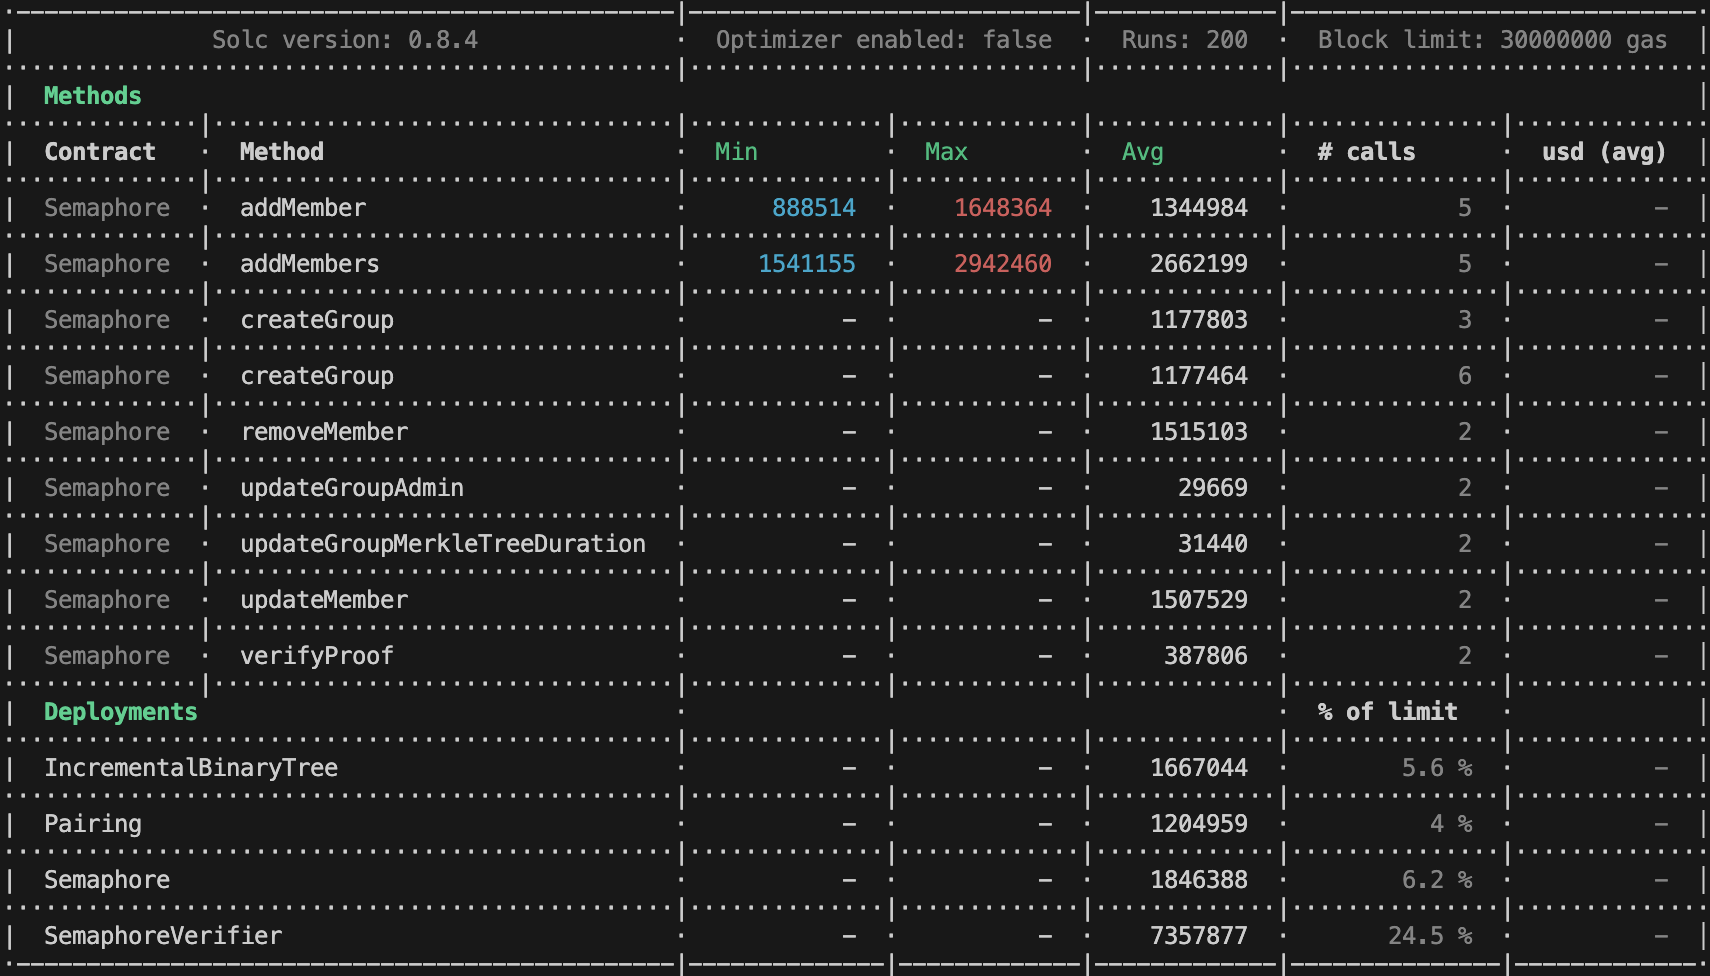
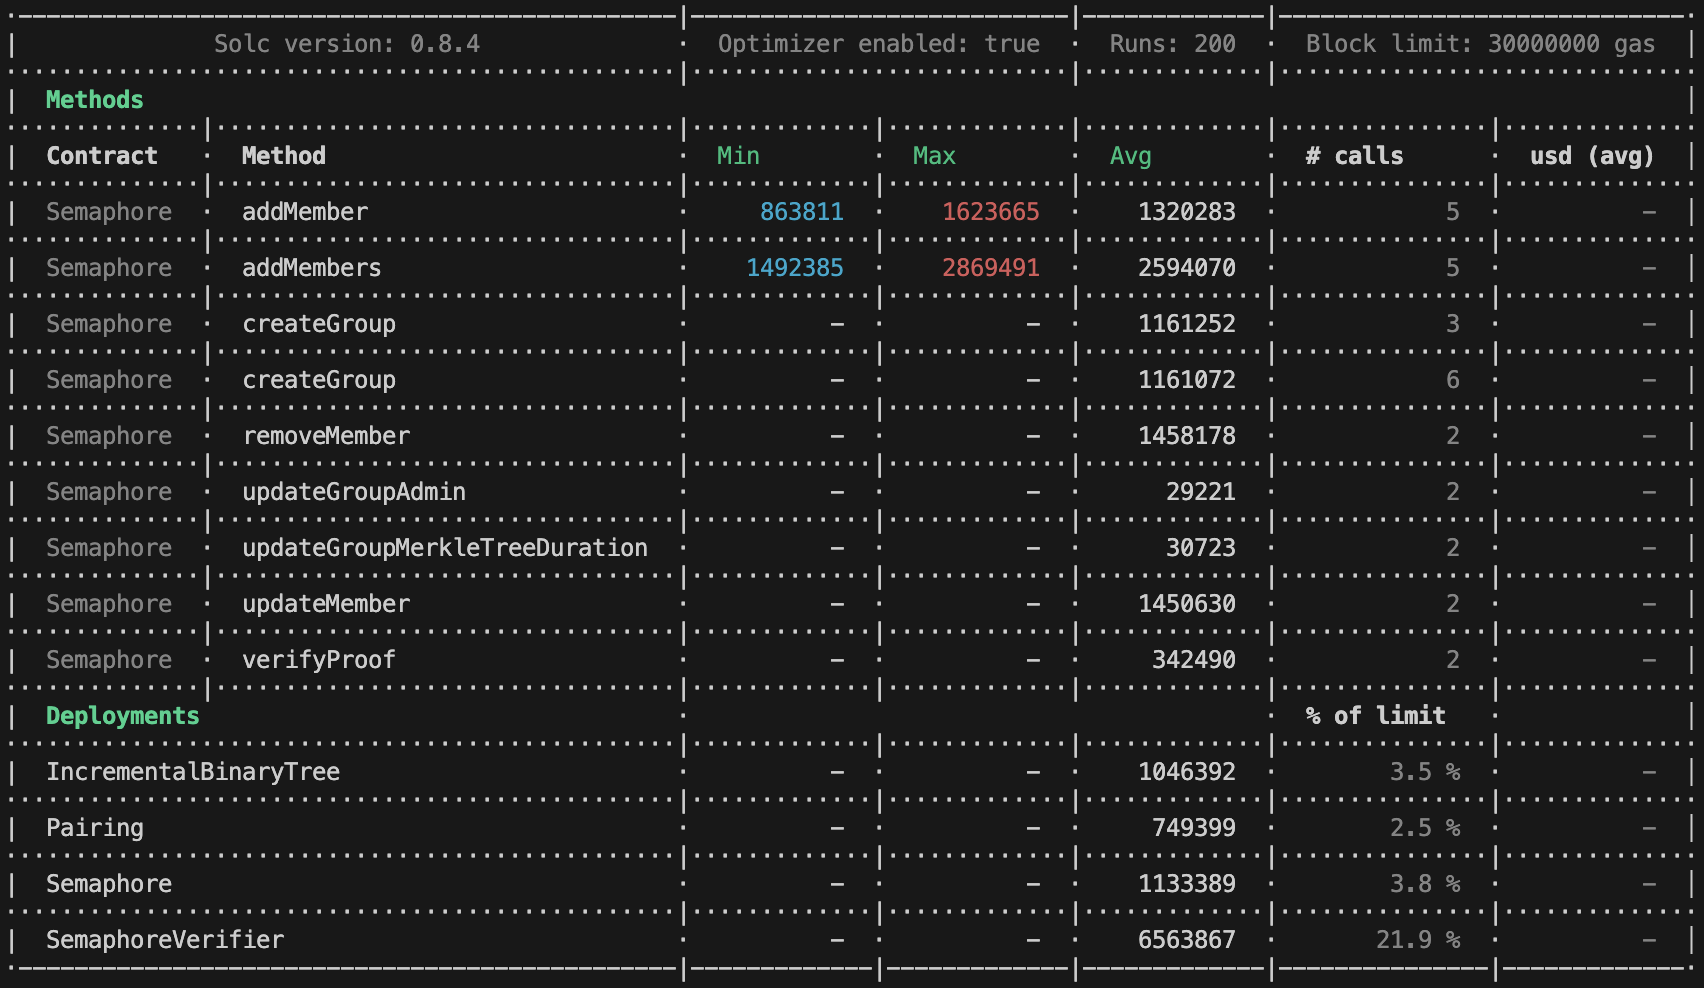
docs: update benachmarks page (#1045)
* docs(docs): update benchmarks page

re #1044

* docs(docs): update browser benchmarks

* docs(docs): update contracts image size

* docs(docs): update solidity benchmark info

diff --git a/apps/docs/versioned_docs/version-V4/benchmarks.md b/apps/docs/versioned_docs/version-V4/benchmarks.md
@@ -42,13 +42,13 @@ Chip: Apple M2 Pro
 
 Memory (RAM): 16 GB
 
-Operating System: macOS Sequoia version 15.0.1
+Operating System: macOS Sequoia version 15.6.1
 
 **Software environment**
 
-Node.js version: 20.18.0
+Node.js version: 23.10.0
 
-Browser: Google Chrome Version 130.0.6723.92 (Official Build) (arm64)
+Browser: Google Chrome Version 139.0.7258.156 (Official Build) (arm64)
 
 ## Running the benchmarks
 
@@ -59,6 +59,8 @@ GitHub repository to the run Node.js, browser and Circom benchmarks: https://git
 ### Solidity
 
 GitHub repository to run the Solidity benchmarks: https://github.com/semaphore-protocol/semaphore
+
+Semaphore V3 benchmarks were obtained using the code from the latest v3 Git tag (`v3.15.2`), with the Solidity optimizer enabled.
 
 ## Node.js benchmarks
 
@@ -98,6 +100,8 @@ Main functions used in the browser.
 
 ## Circuit benchmarks
 
+Tree depth = 20
+
 ### Semaphore V3
 
 <img
@@ -119,7 +123,7 @@ style={{ width: '300px', height: 'auto' }}
 <img
 src={require('../../assets/img-benchmarks/contracts/contract-benchmarks.png').default}
 alt="Contract Benchmarks"
-style={{ width: '590px', height: 'auto' }}
+style={{ width: '560px', height: 'auto' }}
 />
 
 ### Semaphore V3 gas report
